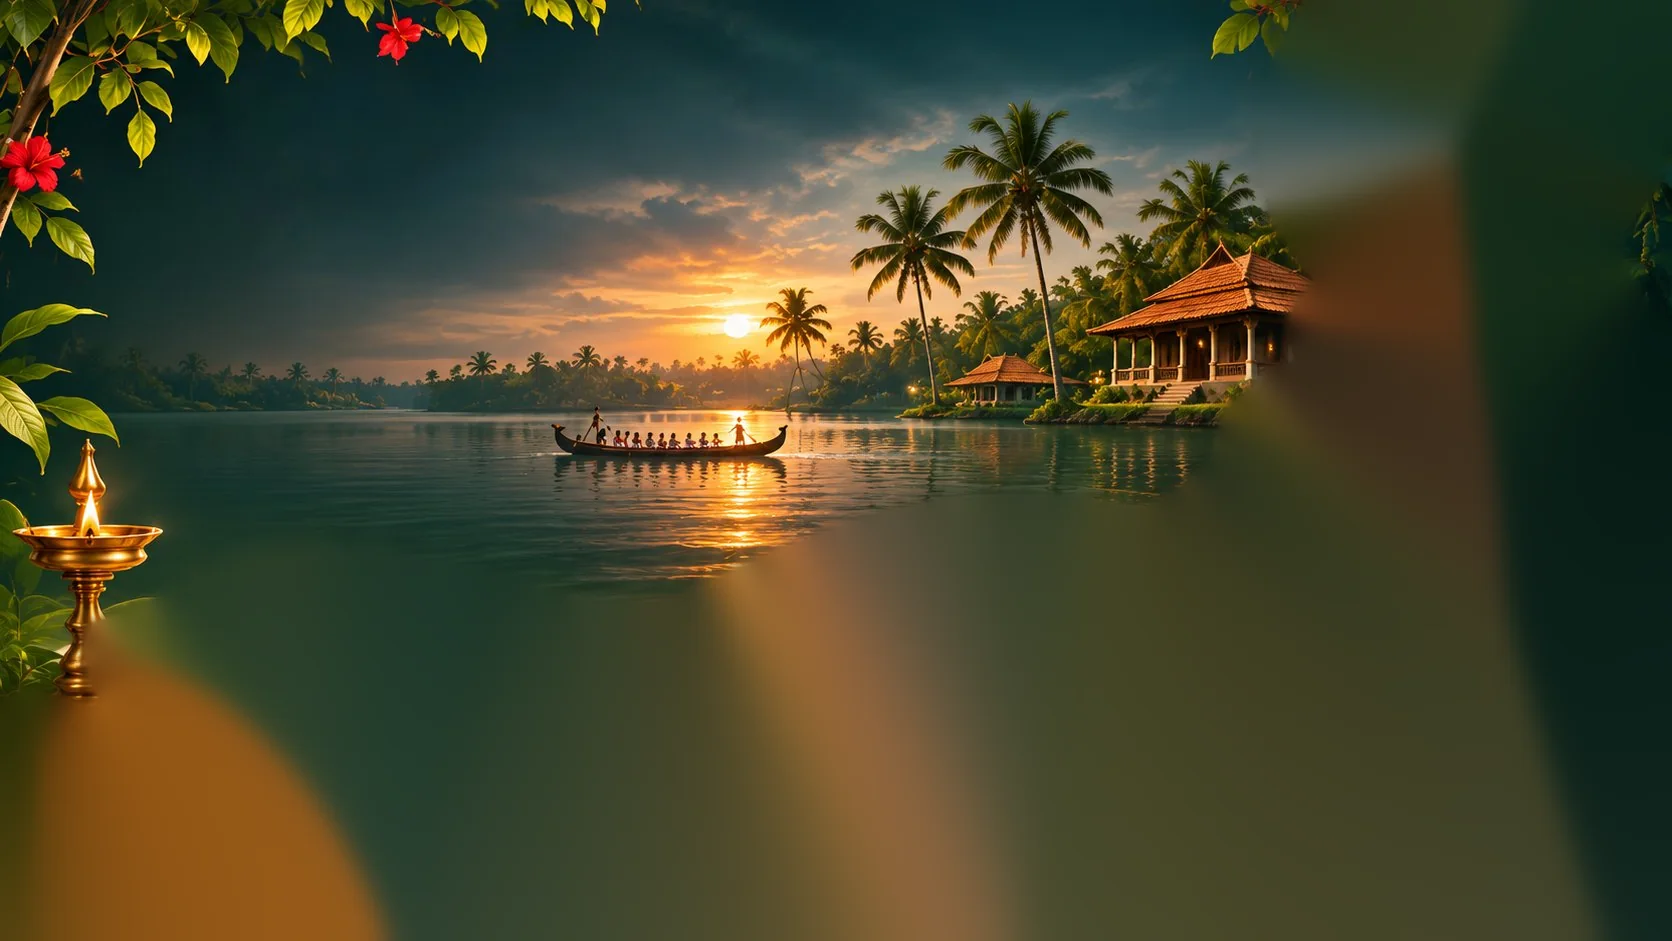
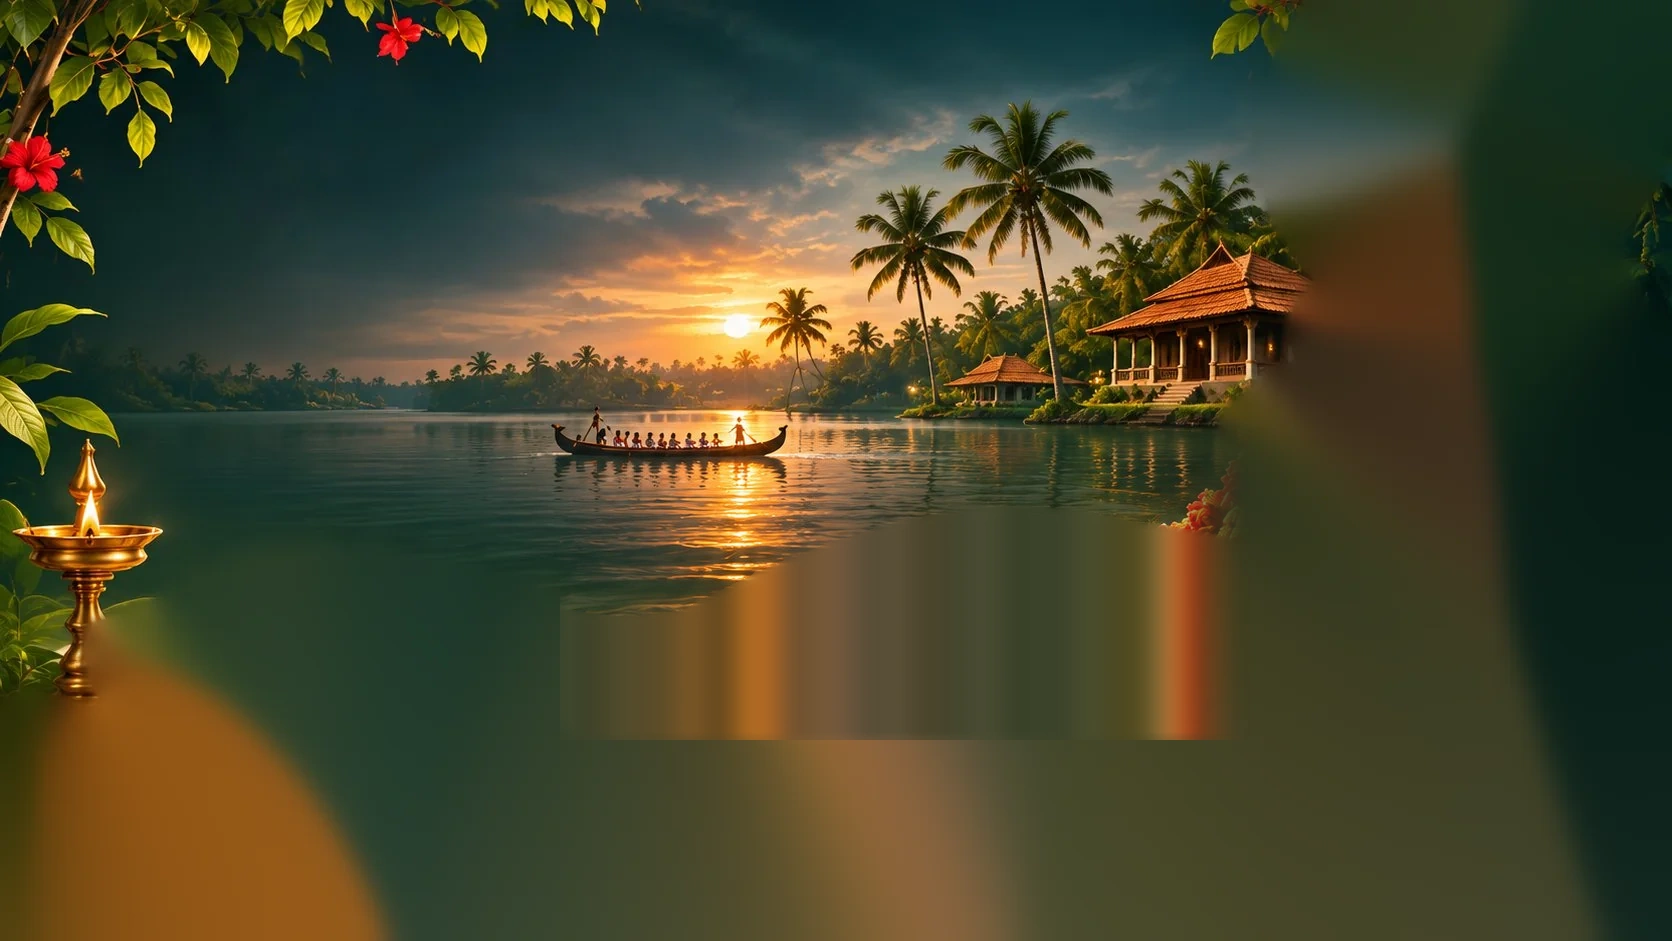
fix(hero): integrate updated Kasavu artwork plates and aligned under-plate styling

Changed region(s): [[0.3732, 0.5547, 0.5909, 0.8013], [0.6531, 0.4931, 0.7464, 0.8013]]

diff --git a/src/app/hero-float.css b/src/app/hero-float.css
@@ -18,18 +18,14 @@
 :root:not([data-theme='dark']) .hero-stage .l-cloth {
   display: block;
   transform: translate3d(0, calc(var(--sy, 0) * .04px), 60px) scale(.96);
-  filter: drop-shadow(0 0 24px rgba(255, 176, 70, .32)) drop-shadow(0 14px 22px rgba(20, 8, 2, .35));
-  /* pinned on the right, where the silk meets the Kathakali; the free end (left) swings */
-  transform-origin: 92% 62%;
-  rotate: .6deg;            /* resting position: a little lower than the painting */
-  will-change: transform, rotate, translate;
+  filter: drop-shadow(0 0 24px rgba(255, 176, 70, .28));
+  transform-origin: 50% 50%;
+  will-change: transform, translate;
 }
 
 @keyframes kas-drift {
-  0%   { rotate: .30deg; translate: 0 -3px; }
-  35%  { rotate: .85deg; translate: 0  2px; }
-  70%  { rotate: .50deg; translate: 0  4px; }
-  100% { rotate: 1.00deg; translate: 0 -2px; }
+  0%, 100% { translate: 0 0; }
+  50%      { translate: 0 -2px; }
 }
 html.motion .l-cloth {
   animation:
@@ -192,35 +188,17 @@ html.motion .l-lamp {
 
 
 /* ==========================================================================
-   FIX 1 · KASAVU BLANK
-   The cloth plate scaled about 92% 62% while the Kathakali plate scales about the
-   centre, so the cloth slid ~28px away from the cut-out it was taken from and left
-   a blank. The cloth now keeps its right-hand pivot for the gentle swing, but its
-   resting pose is offset so it lands exactly on the cut-out. A static under-plate
-   (.l-under, the original full artwork) fills any sliver the swing uncovers.
+   FIX 1 · KASAVU SEAM & STATIC UNDER-PLATE
+   The under-plate (.l-under) shares the exact depth, origin, and scale as .l-fig,
+   providing a solid, seamless companion beneath the floating Kasavu silk.
    ========================================================================== */
-@keyframes cloth-in {
-  from { opacity: 0; transform: translate3d(calc(90px - 1.68%), calc(var(--sy, 0) * .04px - .48%), 60px) scale(1.02); }
-  to   { opacity: 1; transform: translate3d(-1.68%, calc(var(--sy, 0) * .04px - .48%), 60px) scale(.96); }
-}
-@keyframes kas-drift {
-  0%   { rotate: -.12deg; translate: 0 -2px; }
-  35%  { rotate:  .22deg; translate: 0  1px; }
-  70%  { rotate:  .04deg; translate: 0  2px; }
-  100% { rotate:  .30deg; translate: 0 -1px; }
-}
-:root:not([data-theme='dark']) .hero-stage .l-cloth {
-  transform: translate3d(-1.68%, calc(var(--sy, 0) * .04px - .48%), 60px) scale(.96);
-  rotate: 0deg;
-}
-html.motion .l-cloth {
-  animation:
-    cloth-in 1.9s cubic-bezier(.2, .7, .2, 1) 1.75s both,
-    kas-drift 9s ease-in-out 3.6s infinite alternate;
-}
-@media (prefers-reduced-motion: reduce) { .l-cloth { animation: none !important; } }
 .hero-stage .l-under { display: none; filter: none; }
-:root:not([data-theme='dark']) .hero-stage .l-under { display: block; filter: none; }
+:root:not([data-theme='dark']) .hero-stage .l-under {
+  display: block;
+  filter: none;
+  transform: translate3d(0, calc(var(--sy, 0) * .04px), 60px) scale(.96);
+  transform-origin: 50% 50%;
+}
 
 /* ==========================================================================
    FIX 2 · SMOOTH THEME SWITCH
